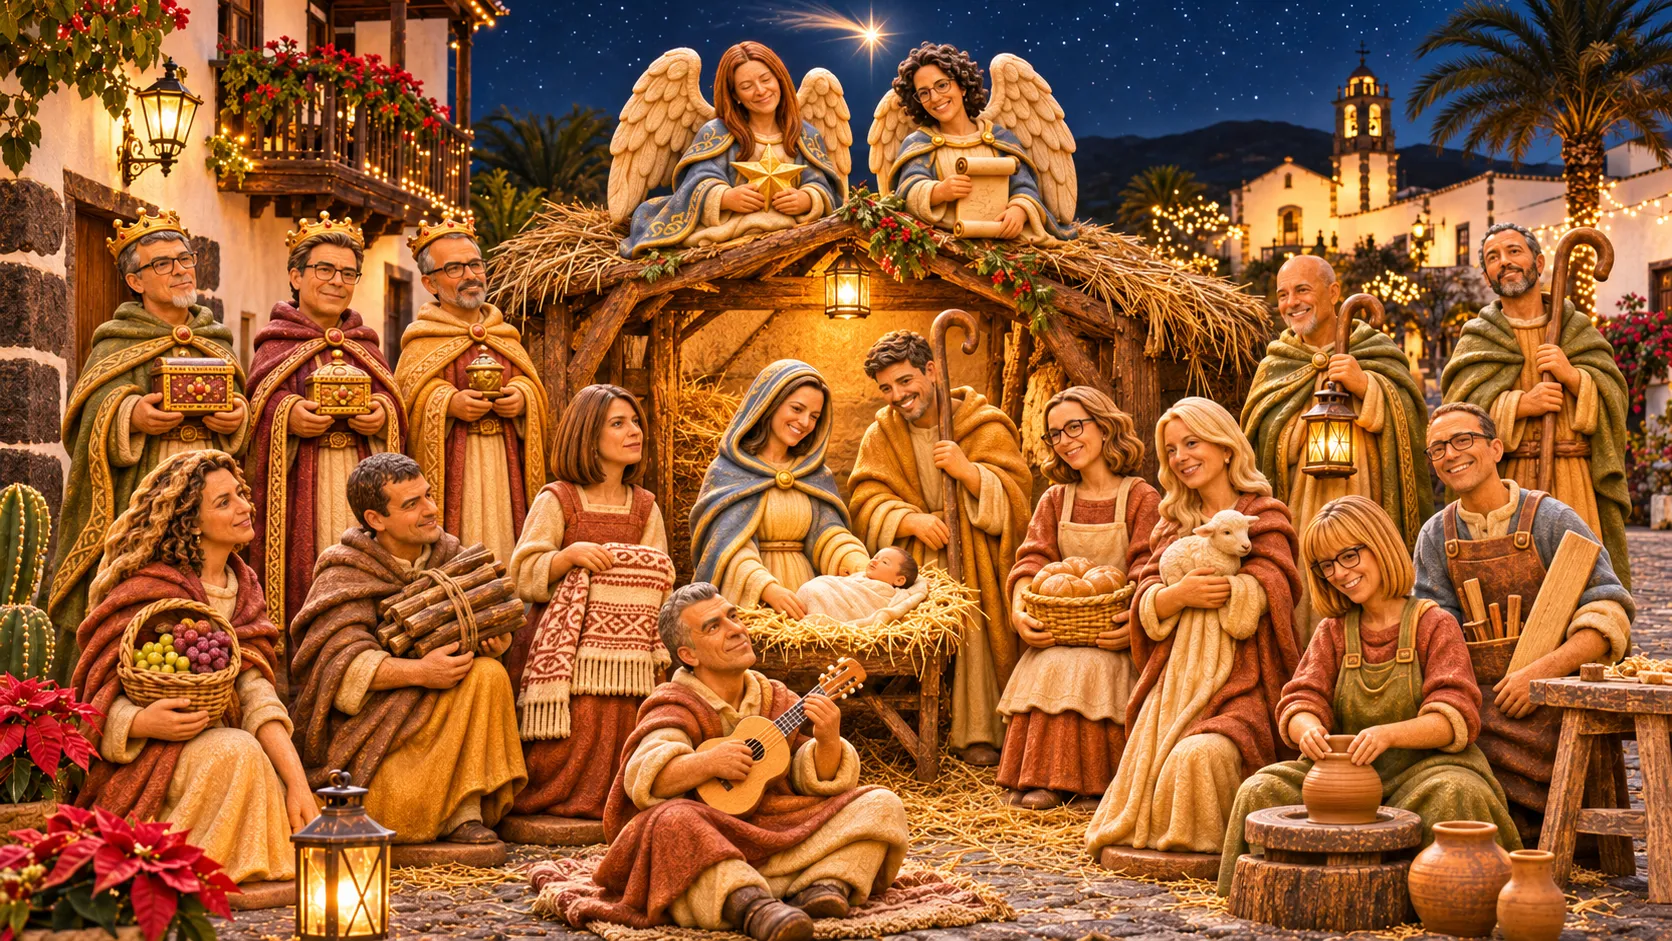
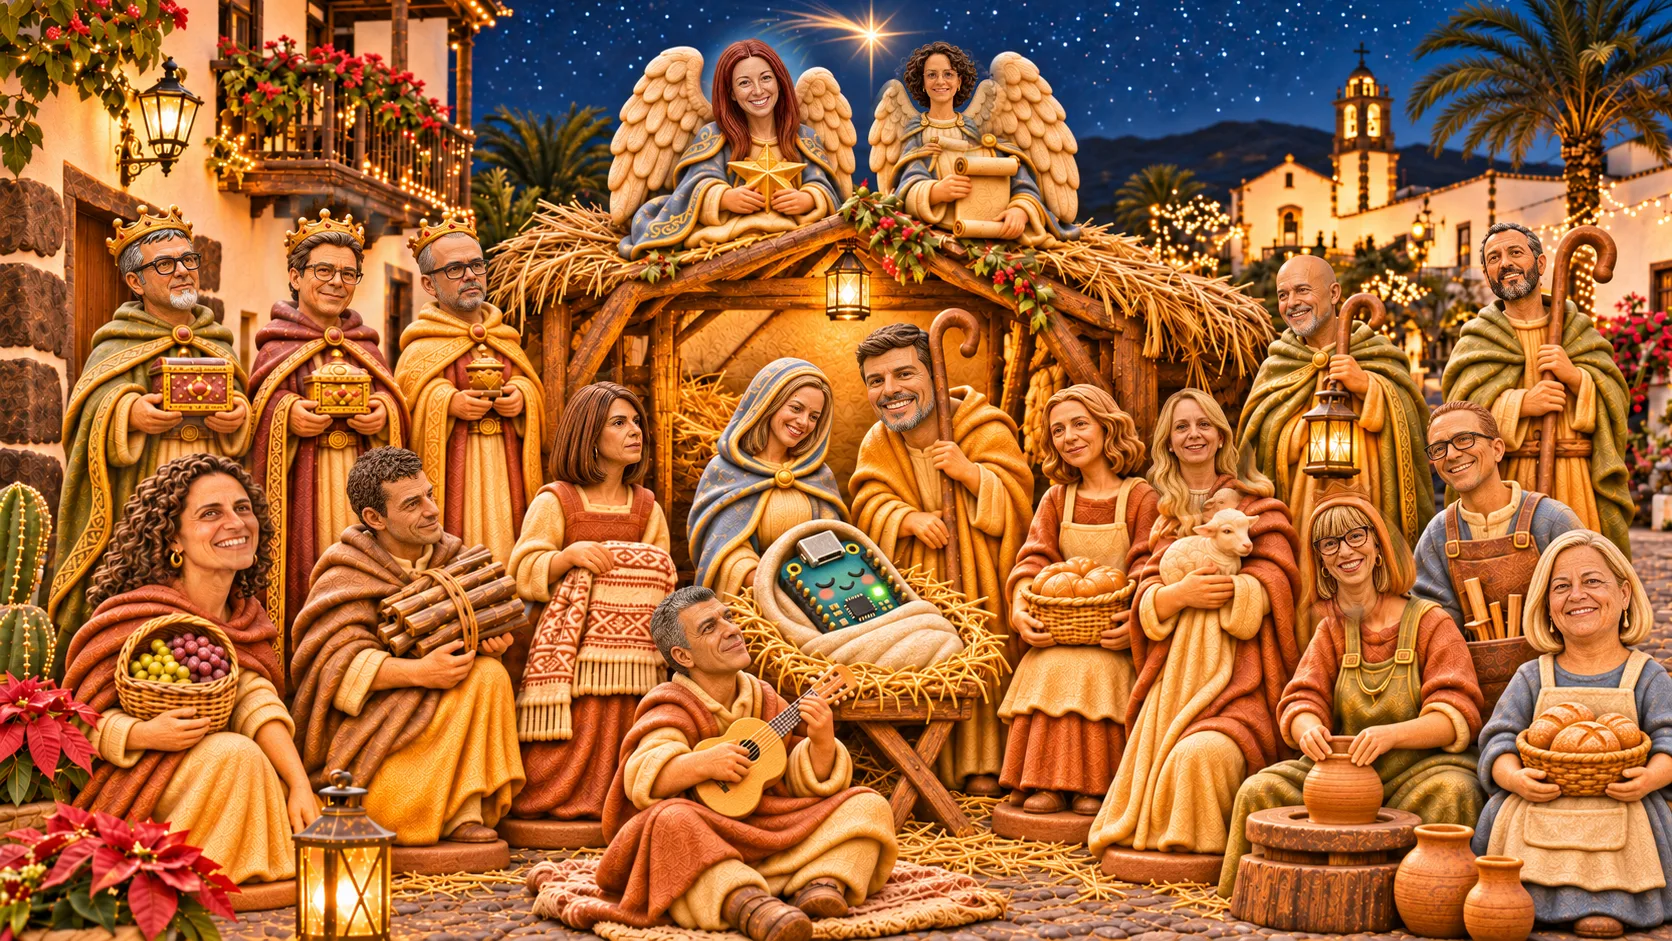
feat: restore the integrated and realistic scenes with closer likenesses

diff --git a/web/index.html b/web/index.html
@@ -109,8 +109,8 @@
       <h3>Otras versiones del belén</h3>
       <p class="lead">Dos interpretaciones de la escena, generadas a partir de los personajes.</p>
       <div class="scene-versions">
-        <figure><a href="assets/belen-figuritas-integradas.png"><img src="assets/belen-figuritas-integradas.webp" width="1672" height="941" alt="Belén integrado con personajes de aspecto de figurita" loading="lazy"></a><figcaption>Figuritas integradas · versión anterior con el Niño tradicional; caras reinterpretadas</figcaption><a class="text-link" href="assets/belen-figuritas-integradas.png" download>Descargar esta versión ↓</a></figure>
-        <figure><a href="assets/belen-realista-interpretacion.png"><img src="assets/belen-realista-interpretacion.webp" width="1672" height="941" alt="Versión realista del belén con las dieciocho personas" loading="lazy"></a><figcaption>Versión realista · las mismas dieciocho personas y la placa en el pesebre</figcaption><a class="text-link" href="assets/belen-realista-interpretacion.png" download>Descargar esta versión ↓</a></figure>
+        <figure><a href="assets/belen-figuritas-integradas.png"><img src="assets/belen-figuritas-integradas.webp" width="1672" height="941" alt="Belén integrado con las dieciocho figuritas y la placa en el pesebre" loading="lazy"></a><figcaption>Figuritas integradas · las dieciocho personas y la placa en el pesebre</figcaption><a class="text-link" href="assets/belen-figuritas-integradas.png" download>Descargar esta versión ↓</a></figure>
+        <figure><a href="assets/belen-realista-interpretacion.png"><img src="assets/belen-realista-interpretacion.webp" width="1672" height="941" alt="Versión realista del belén con las dieciocho personas y la placa en el pesebre" loading="lazy"></a><figcaption>Versión realista · las mismas dieciocho personas y la placa en el pesebre</figcaption><a class="text-link" href="assets/belen-realista-interpretacion.png" download>Descargar esta versión ↓</a></figure>
       </div>
     </section>
   </main>
